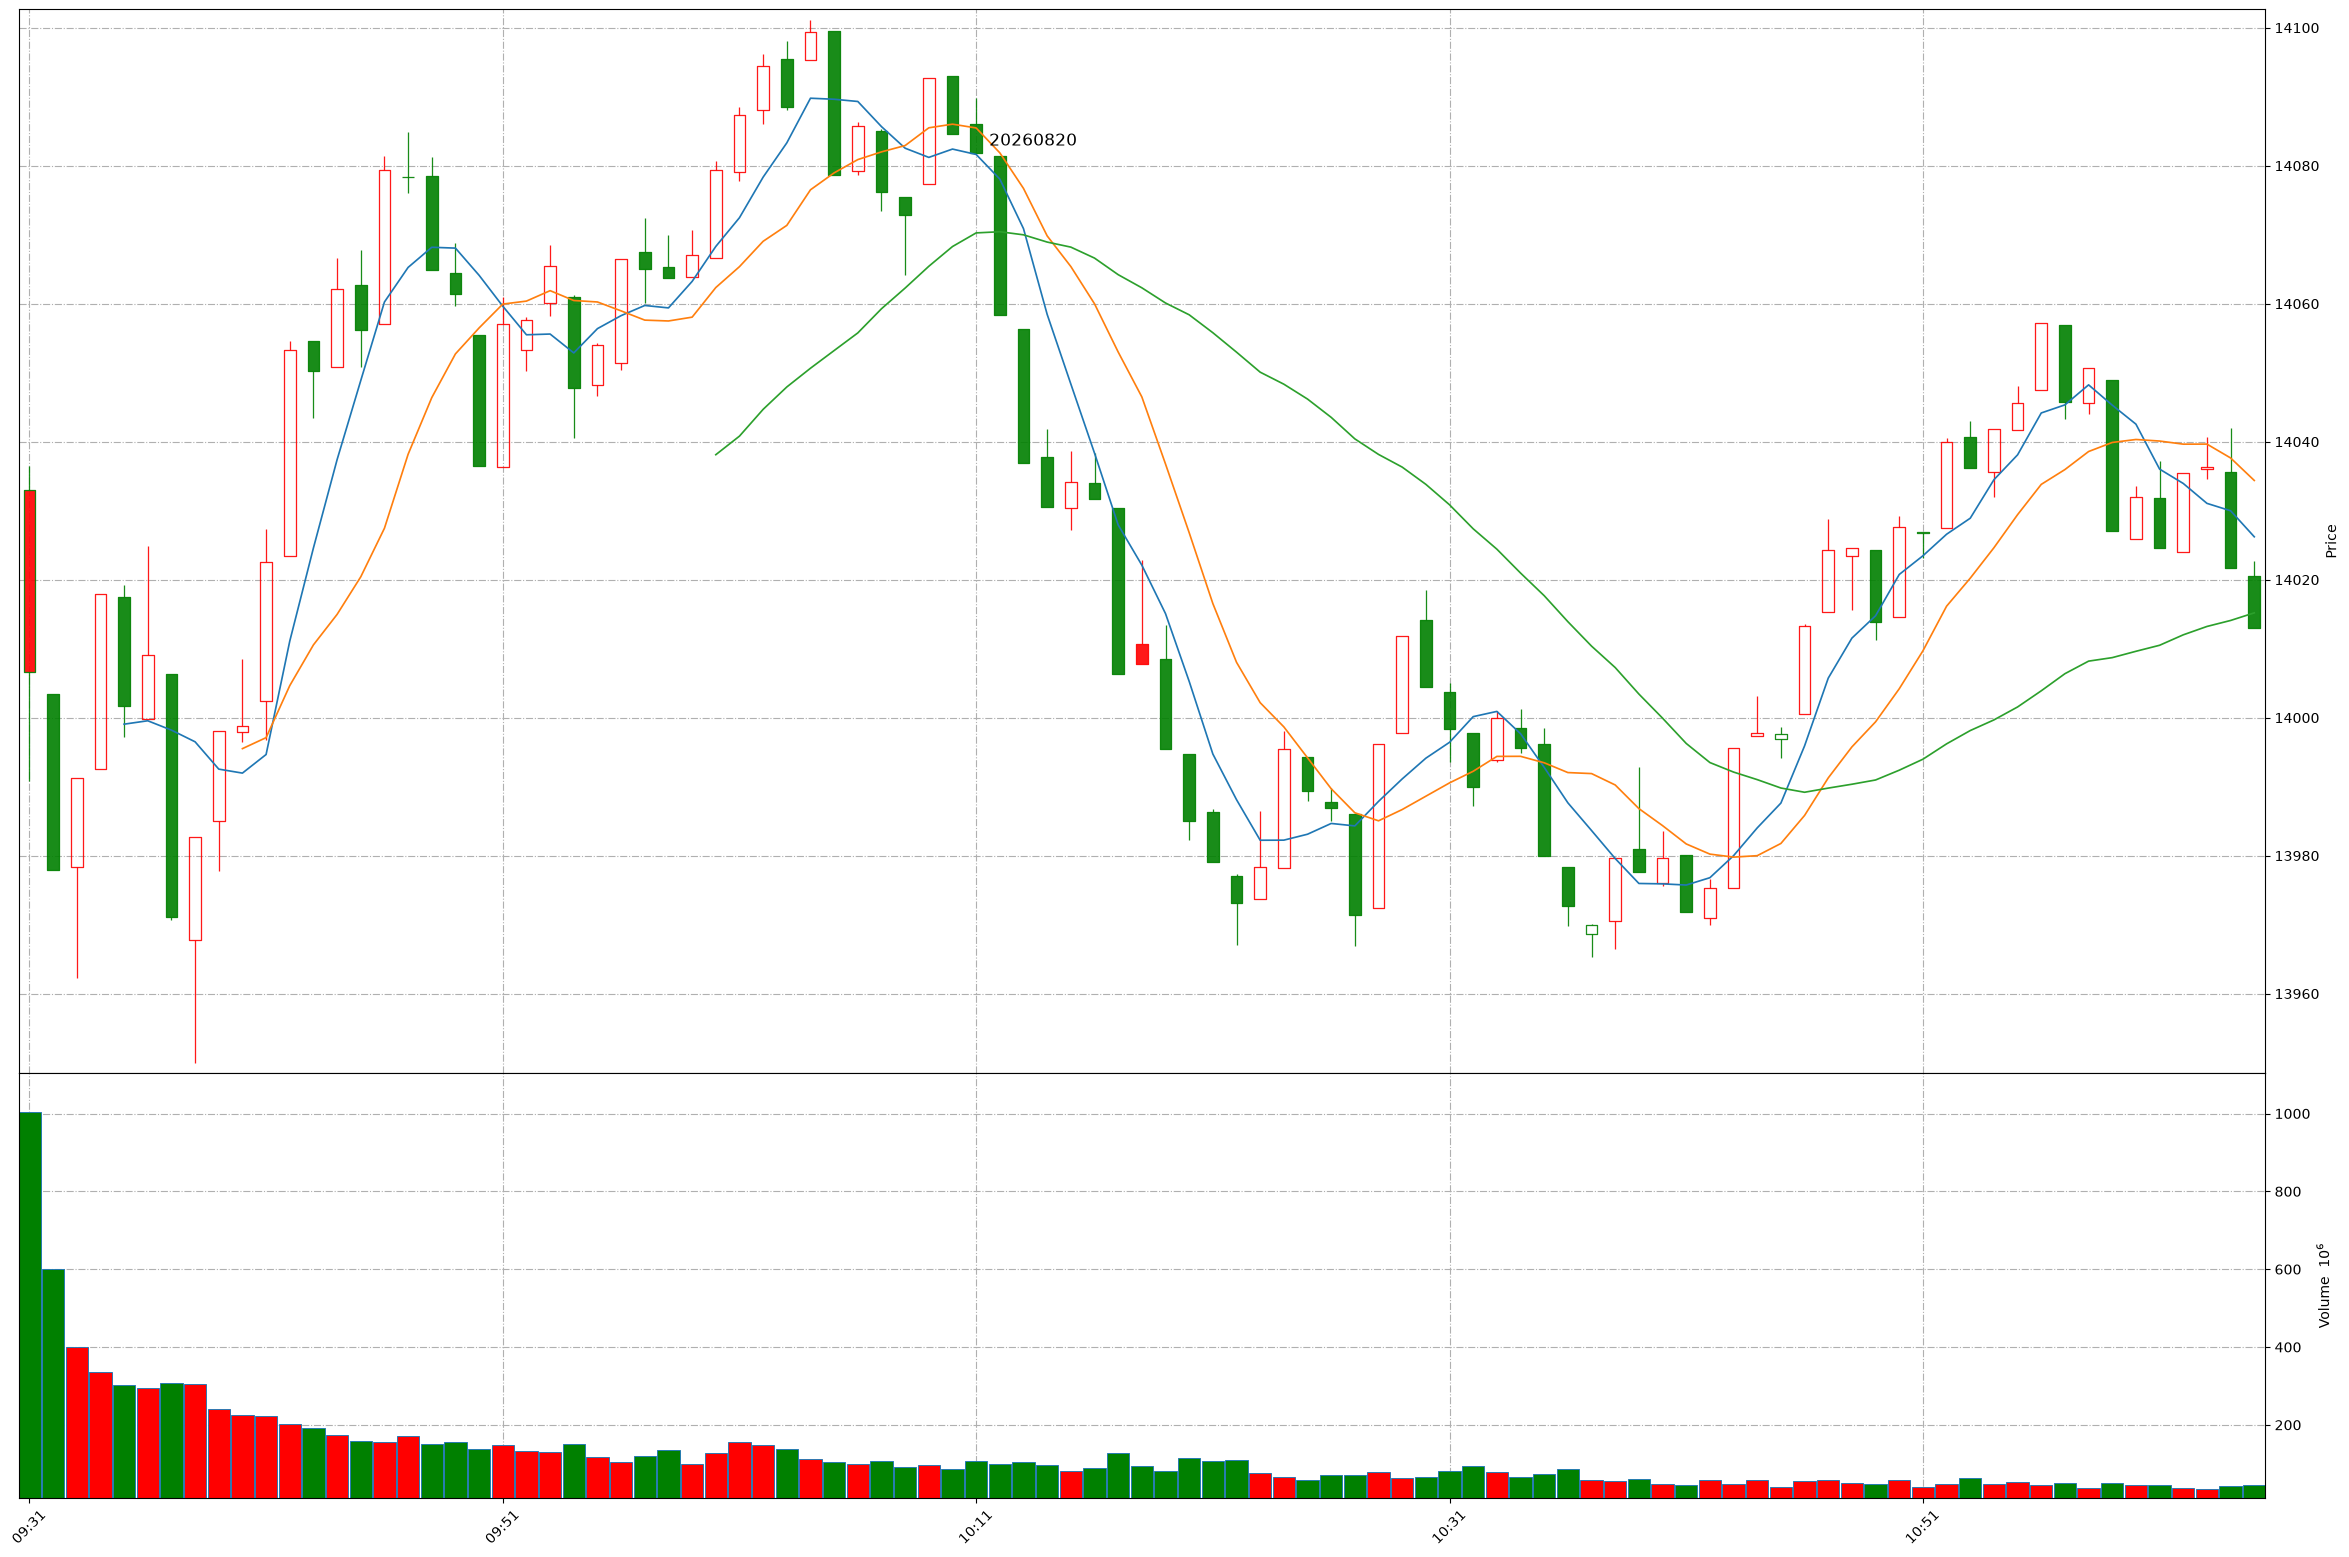
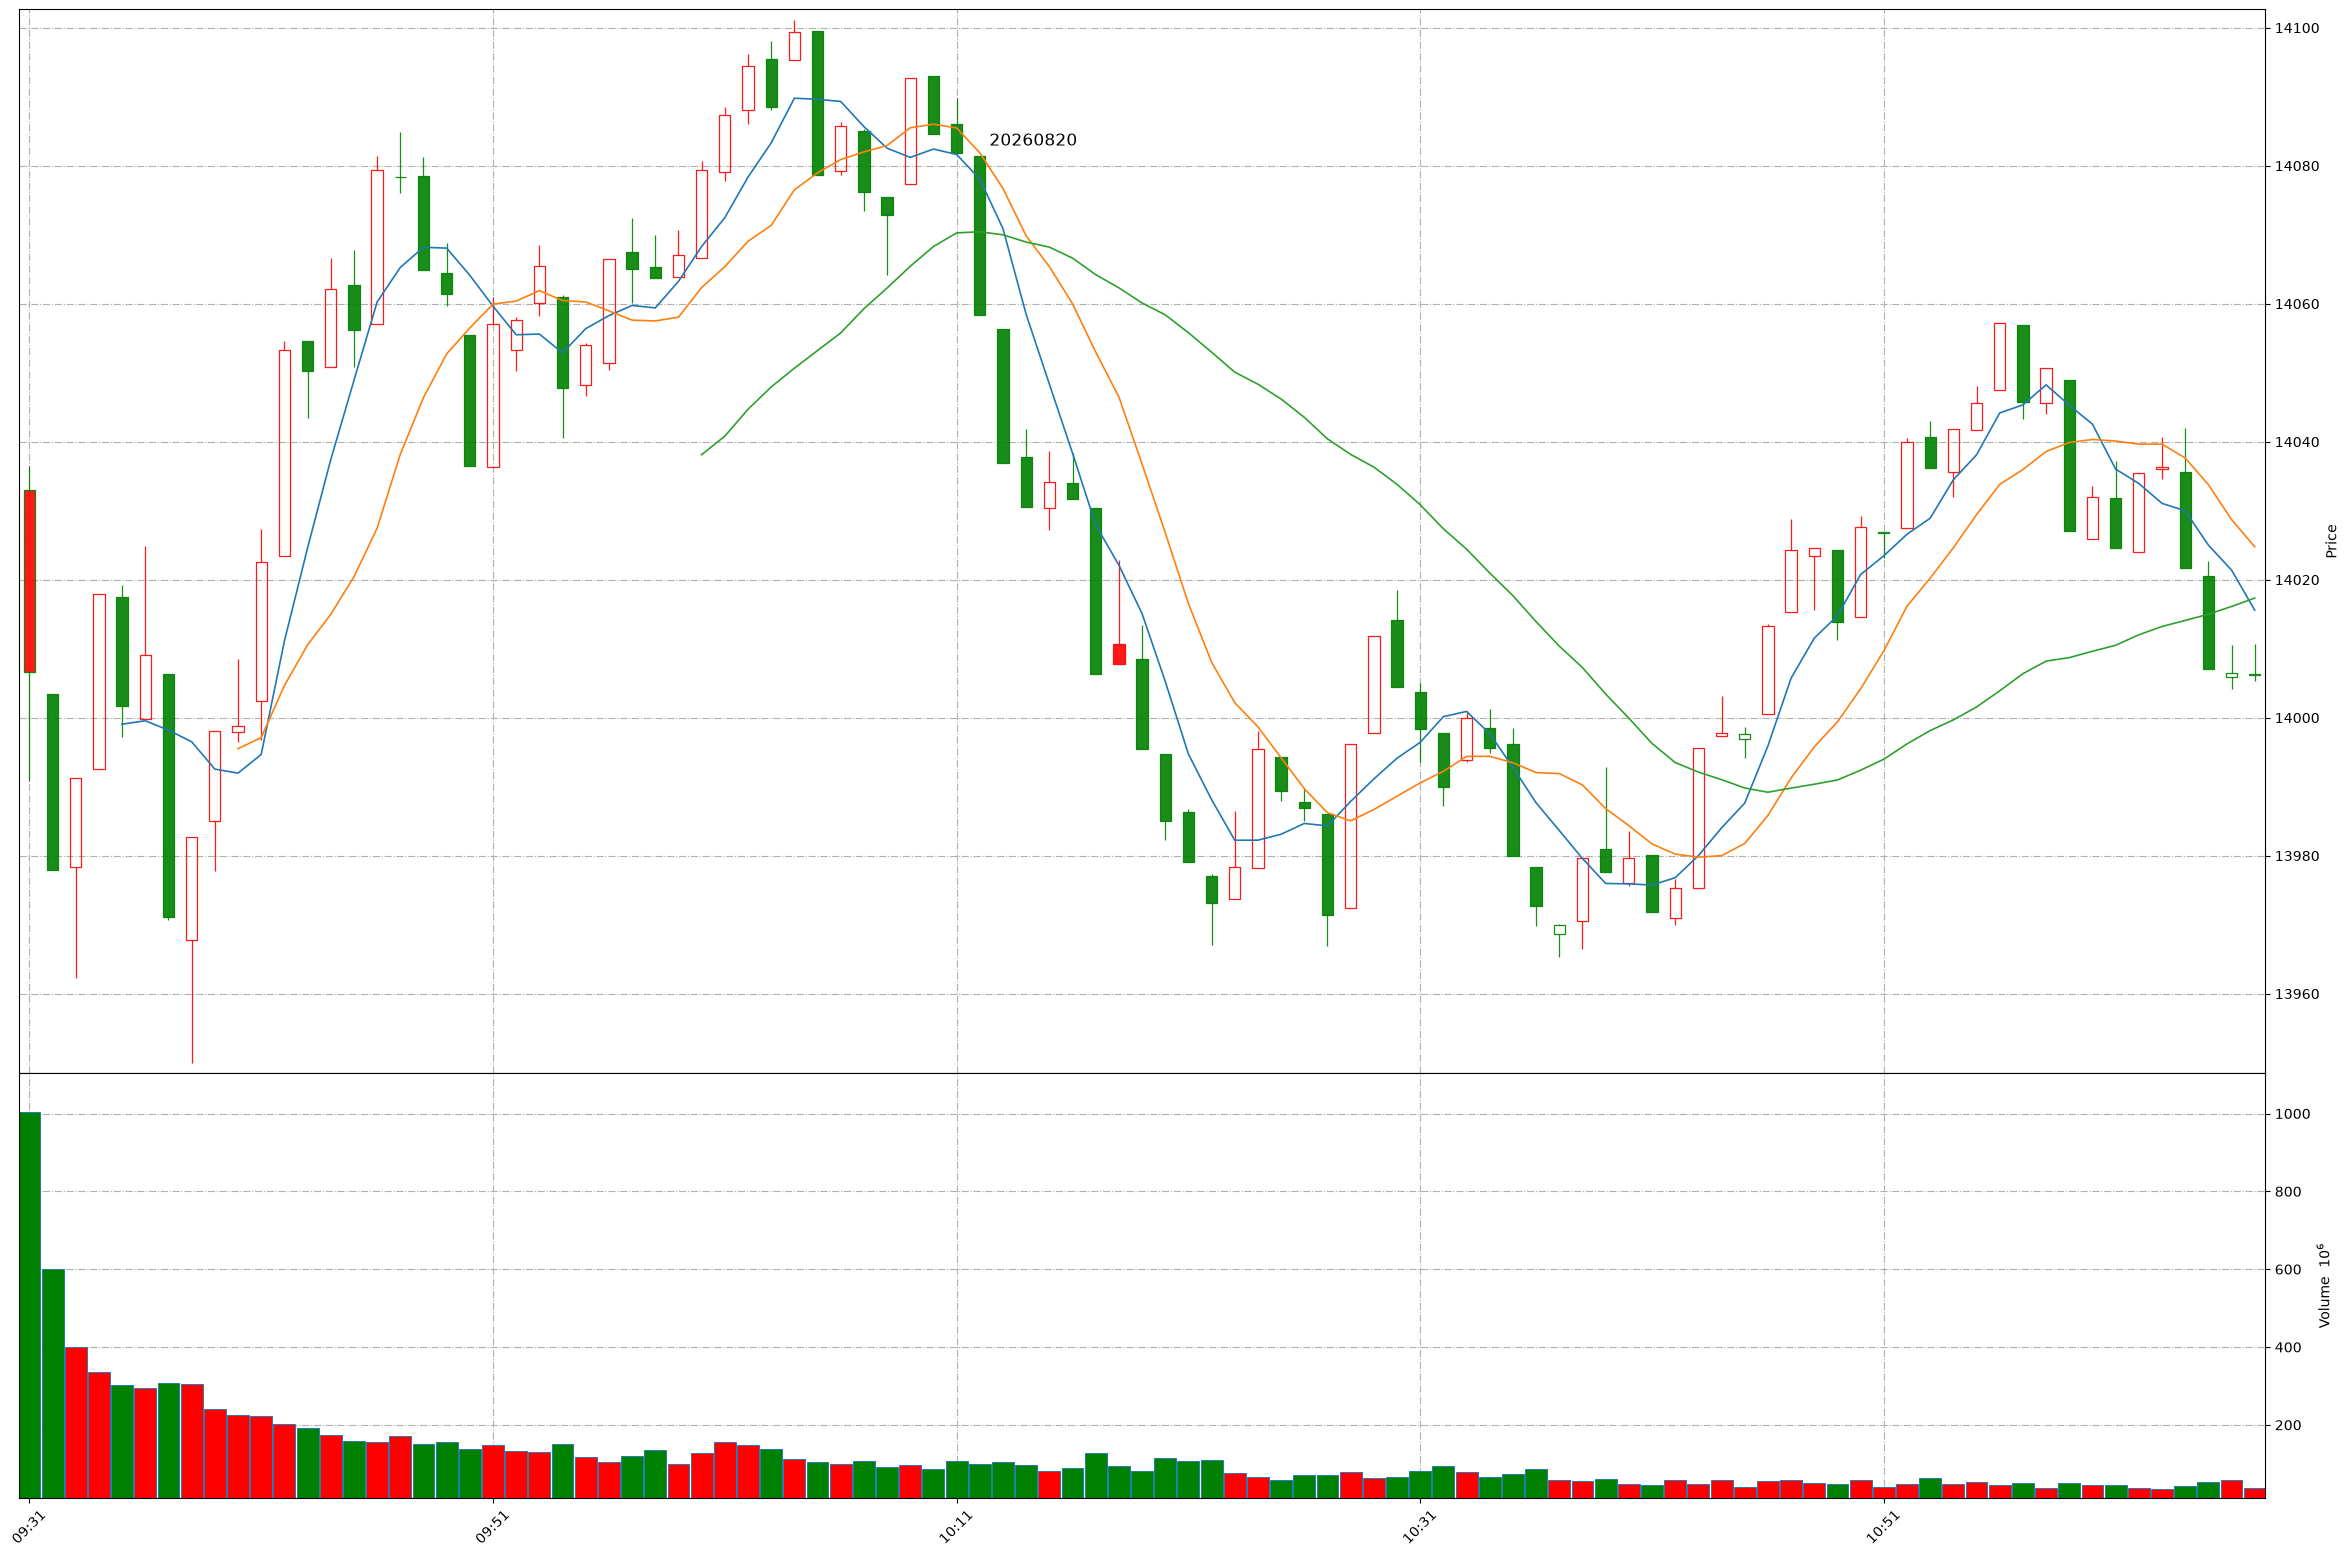
Github action update at 2026-08-20 11:07:15.

diff --git a/README.md b/README.md
@@ -1,11 +1,11 @@
 
 # Daily-A-share-market-quotes 每日 A 股指数（5min 更新）- 20260820
 
-### 上证指数 20260820 11:5
+### 上证指数 20260820 11:7
 ![](./fig/2026/8/20260820-sh000001.png)
 
-### 深证成指 20260820 11:5
+### 深证成指 20260820 11:7
 ![](./fig/2026/8/20260820-sz399001.png)
 
-### 北证50 20260820 11:5
+### 北证50 20260820 11:7
 ![](./fig/2026/8/20260820-bj899050.png)
